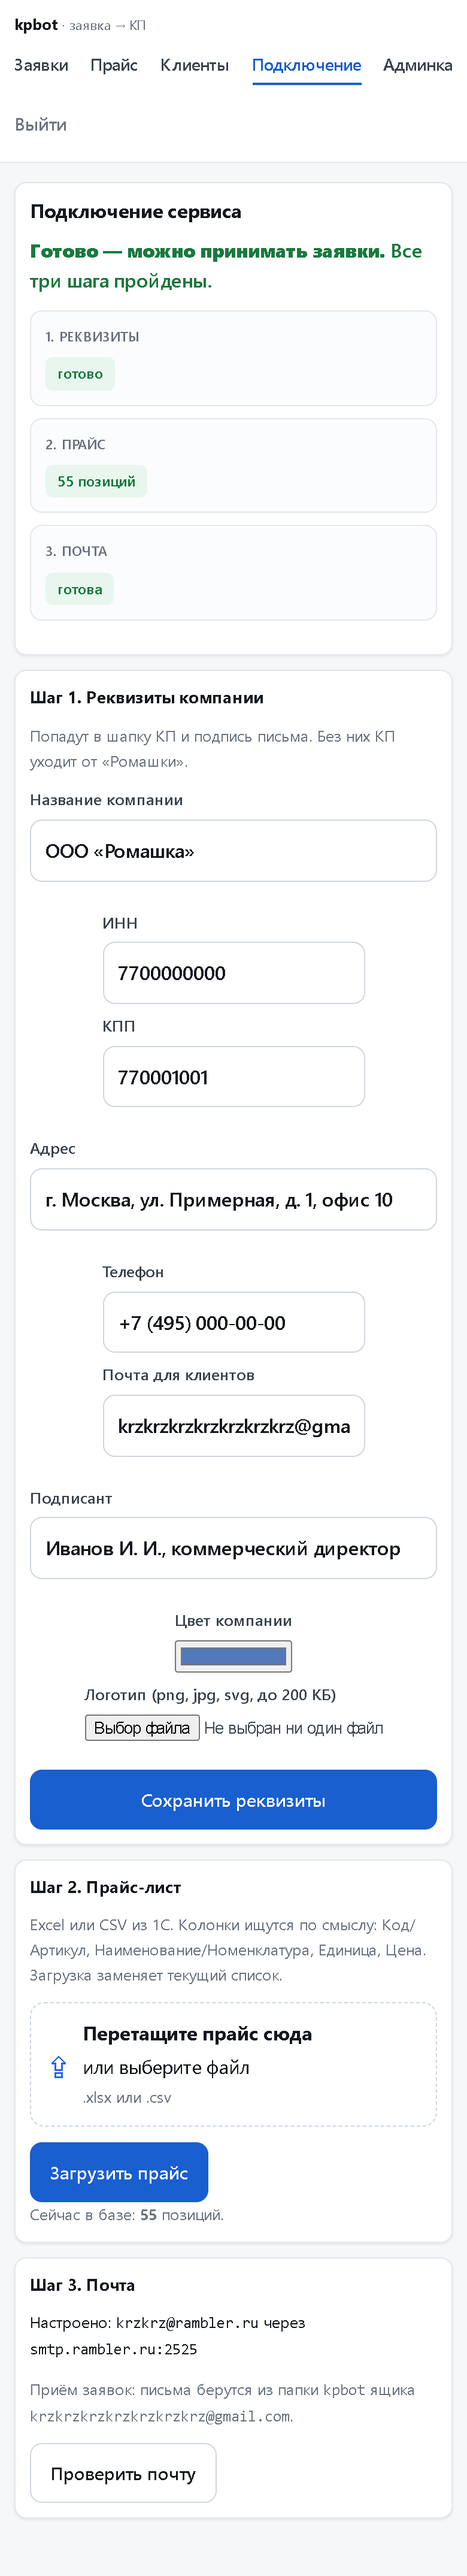
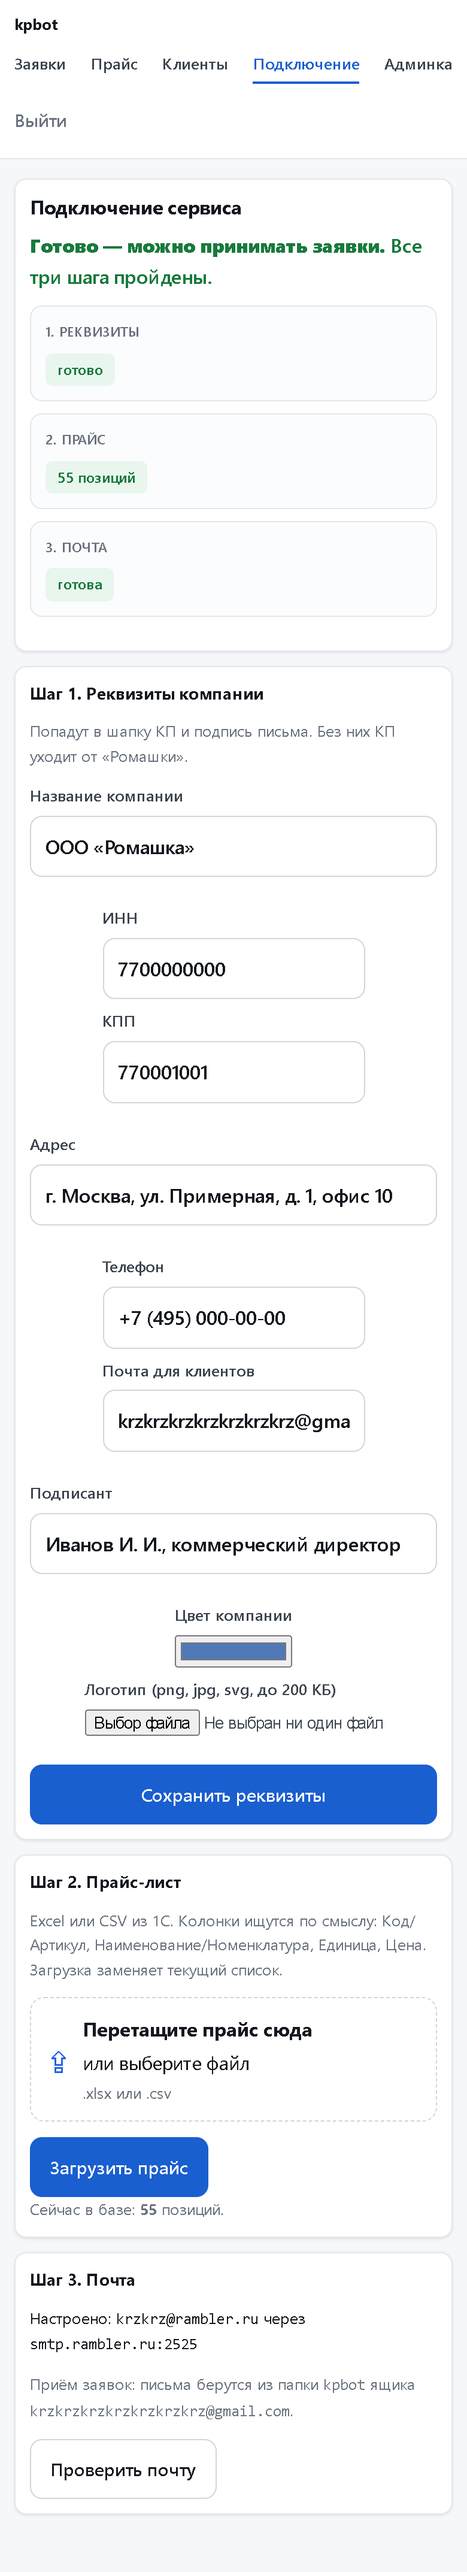
fix(ui): меню одной строкой, компактная очередь на телефоне, бейдж окружения

diff --git a/kpbot/static/app.css b/kpbot/static/app.css
@@ -1301,3 +1301,21 @@ code { overflow-wrap: anywhere; }
     min-width: 0;
   }
 }
+
+@media (max-width: 768px) {
+  /* Меню — одна прокручиваемая строка: ничего не обрезается справа */
+  .nav {
+    flex-wrap: nowrap;
+    overflow-x: auto;
+    width: 100%;
+    padding-bottom: 4px;
+    scrollbar-width: none;
+  }
+  .nav::-webkit-scrollbar { display: none; }
+  .nav > * { flex: 0 0 auto; }
+
+  /* Очередь на телефоне: главное в карточке, остальное — внутри заявки */
+  .inbox-table td[data-label="Получено"],
+  .inbox-table td[data-label="Исполнитель"],
+  .inbox-table td[data-label="Строк"] { display: none; }
+}

diff --git a/kpbot/templates/admin.html b/kpbot/templates/admin.html
@@ -25,7 +25,7 @@
       <tr>
         <th>Окружение</th>
         <td data-label="Окружение">
-          {% if diagnostics.env in ("prod", "production") %}<span class="badge s-ok">боевой</span>{% else %}<span class="badge s-human_review">разработка</span>{% endif %}
+          {% if diagnostics.env == "боевой" %}<span class="badge s-ok">боевой</span>{% else %}<span class="badge s-human_review">разработка</span>{% endif %}
         </td>
       </tr>
       <tr>

diff --git a/kpbot/templates/inbox.html b/kpbot/templates/inbox.html
@@ -67,7 +67,7 @@
 
 <section class="card">
   {% if rfqs %}
-  <table class="cards-table">
+  <table class="cards-table inbox-table">
     <thead>
       <tr>
         <th>Получено</th>
